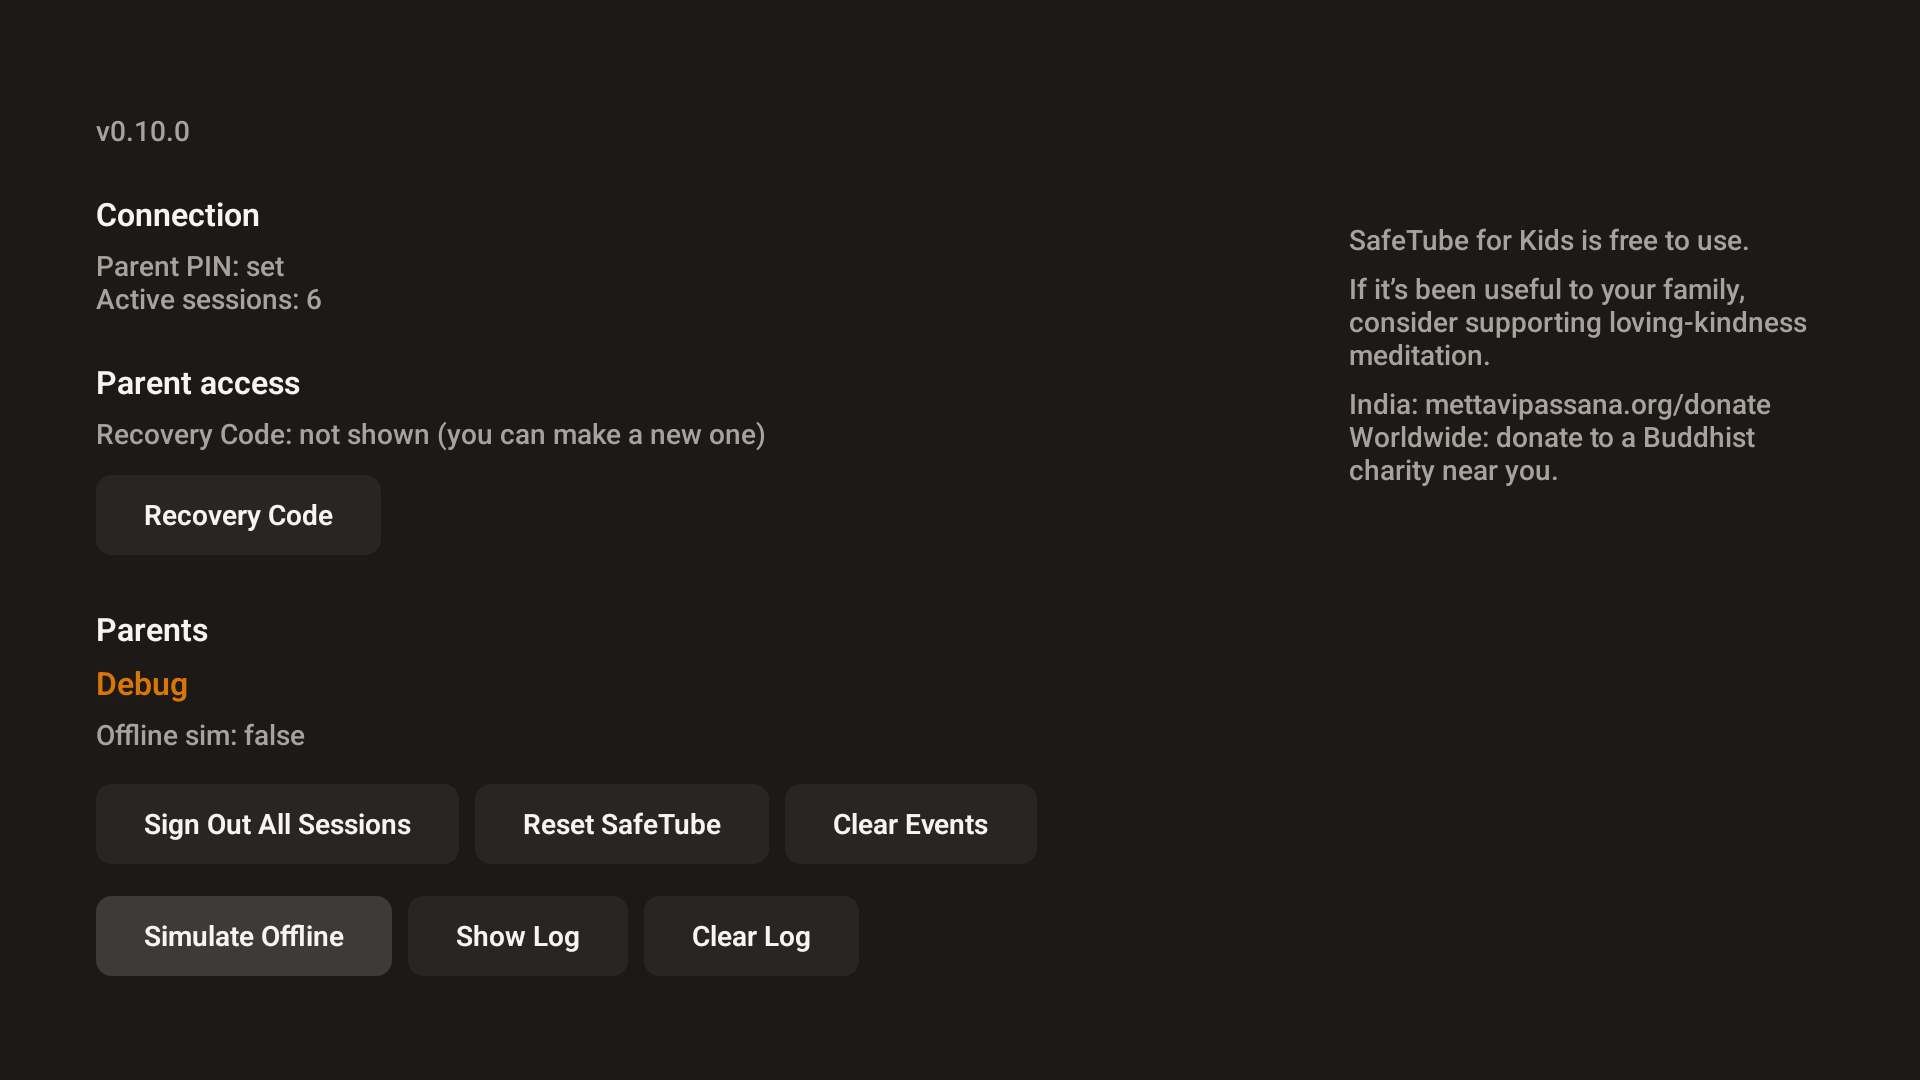
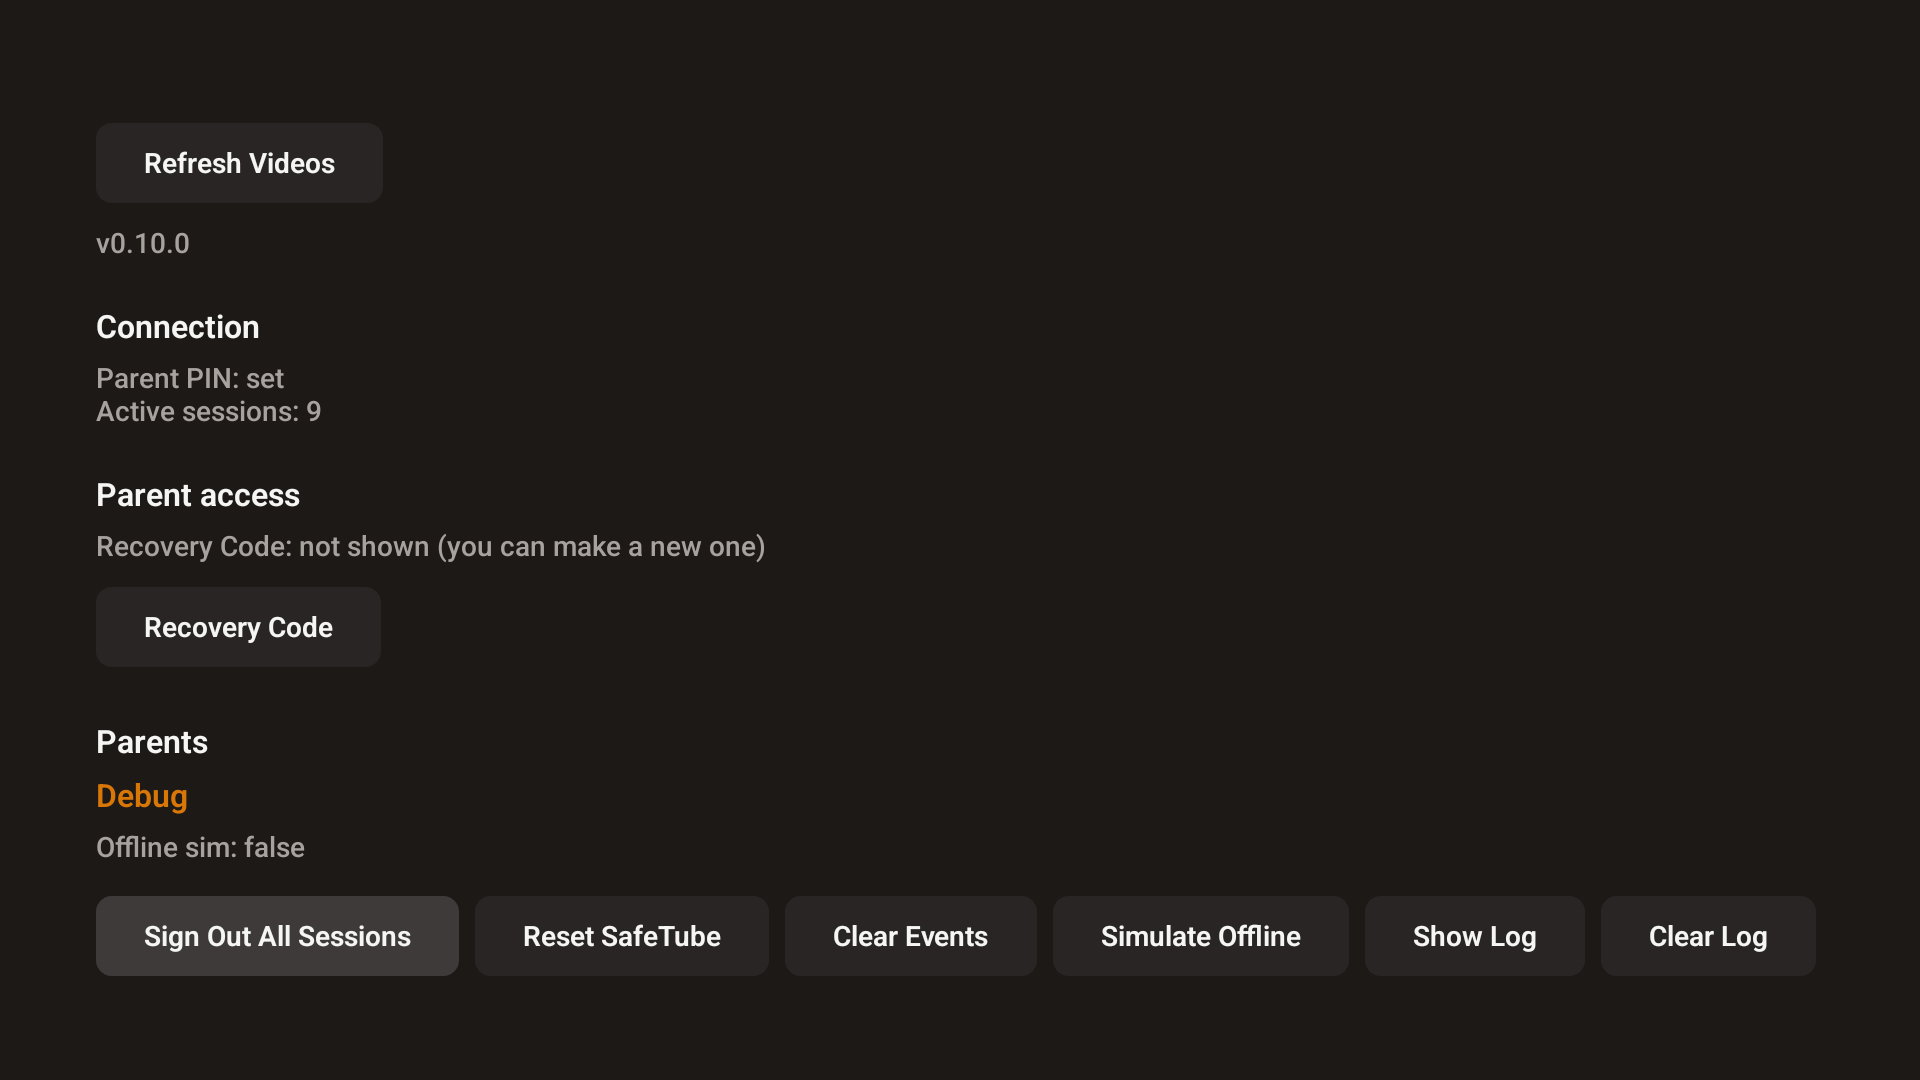
ui: remove obsolete upstream branding and donation text
The TV Settings screen carried a right-hand column inherited from the project SafeTube forked from: 'SafeTube for Kids is free to use', an appeal to support loving-kindness meditation, an India donation link and 'donate to a Buddhist charity near you'. The Connect Phone screen carried the same paragraph. None of it was SafeTube's, and it has been removed at its source in both screens, leaving the settings list to use the width.

One more place the old project's name was on screen: enabling Remote Access printed the relay's address, which is the upstream project's hostname. The panel now shows the connection status and what the feature does, and the address is gone. The relay code itself is untouched - its endpoint, its CORS entry and its build default are networking identifiers, not UI, and rewriting them would change behaviour this task does not own. The two log lines that would have written that hostname into the app's own log panel no longer name it either.

Nothing was replaced with another support message, and no attribution was invented. The upstream contribution is still recorded where it belongs: the licence, the README's origins section and the project history.
[…]

diff --git a/tv-app/app/src/main/java/tv/safetubeforkids/app/ui/screens/ConnectScreen.kt b/tv-app/app/src/main/java/tv/safetubeforkids/app/ui/screens/ConnectScreen.kt
@@ -273,35 +273,6 @@ fun ConnectScreen(onBack: () -> Unit = {}, onParentAccess: () -> Unit = {}) {
 
                     Spacer(modifier = Modifier.height(16.dp))
 
-                    // Charityware
-                    Text(
-                        text = "SafeTube for Kids is free to use.",
-                        style = MaterialTheme.typography.bodySmall,
-                        color = KidTextDim,
-                    )
-                    Text(
-                        text = "If it\u2019s been useful to your family,",
-                        style = MaterialTheme.typography.bodySmall,
-                        color = KidTextDim,
-                    )
-                    Text(
-                        text = "consider supporting loving-kindness meditation.",
-                        style = MaterialTheme.typography.bodySmall,
-                        color = KidTextDim,
-                    )
-                    Text(
-                        text = "India: mettavipassana.org/donate",
-                        style = MaterialTheme.typography.bodySmall,
-                        color = KidTextDim,
-                    )
-                    Text(
-                        text = "Worldwide: donate to a Buddhist charity near you.",
-                        style = MaterialTheme.typography.bodySmall,
-                        color = KidTextDim,
-                    )
-
-                    Spacer(modifier = Modifier.height(20.dp))
-
                     Button(
                         onClick = onBack,
                         colors = ButtonDefaults.buttonColors(containerColor = KidSurface),
@@ -436,9 +407,9 @@ private fun ConnectSettingsPanel(
         Spacer(modifier = Modifier.height(4.dp))
 
         if (localRelayEnabled) {
-            relayConfig?.let {
-                Text("Relay: ${it.relayUrl}", style = MaterialTheme.typography.bodySmall, color = KidTextDim)
-            }
+            // The relay's address is not shown: it points at the upstream project's infrastructure,
+            // which this fork does not run, and printing that hostname on the TV was the last place the
+            // old project's name appeared on screen. The connection status below is what a parent needs.
             relayState?.let { state ->
                 val statusText = when (state) {
                     RelayConnectionState.CONNECTED -> "Connected"

diff --git a/tv-app/app/src/main/java/tv/safetubeforkids/app/ui/screens/SettingsScreen.kt b/tv-app/app/src/main/java/tv/safetubeforkids/app/ui/screens/SettingsScreen.kt
@@ -58,7 +58,10 @@ fun SettingsScreen(
             .background(KidBackground)
             .padding(OverscanPadding),
     ) {
-        // Left column: settings
+        // One column of settings. The right-hand column that used to sit beside it held third-party
+        // support text inherited from the project SafeTube forked from - it was not SafeTube's, it is
+        // not shown anywhere any more, and this comment stays so that nobody reinstates it. The row
+        // itself stays because it is what applies the screen's padding.
         Column(
             modifier = Modifier
                 .weight(1f)
@@ -162,39 +165,6 @@ fun SettingsScreen(
                 Spacer(modifier = Modifier.height(12.dp))
                 LogPanel()
             }
-        }
-
-        Spacer(modifier = Modifier.width(32.dp))
-
-        // Right column: charityware
-        Column(
-            modifier = Modifier
-                .weight(0.4f)
-                .padding(top = 64.dp),
-            verticalArrangement = Arrangement.Top,
-        ) {
-            Text(
-                text = "SafeTube for Kids is free to use.",
-                style = MaterialTheme.typography.bodySmall,
-                color = KidTextDim,
-            )
-            Spacer(modifier = Modifier.height(8.dp))
-            Text(
-                text = "If it\u2019s been useful to your family, consider supporting loving-kindness meditation.",
-                style = MaterialTheme.typography.bodySmall,
-                color = KidTextDim,
-            )
-            Spacer(modifier = Modifier.height(8.dp))
-            Text(
-                text = "India: mettavipassana.org/donate",
-                style = MaterialTheme.typography.bodySmall,
-                color = KidTextDim,
-            )
-            Text(
-                text = "Worldwide: donate to a Buddhist charity near you.",
-                style = MaterialTheme.typography.bodySmall,
-                color = KidTextDim,
-            )
         }
     }
 }

diff --git a/tv-app/app/src/main/java/tv/safetubeforkids/app/relay/RelayConnector.kt b/tv-app/app/src/main/java/tv/safetubeforkids/app/relay/RelayConnector.kt
@@ -51,7 +51,7 @@ class RelayConnector(
         shouldReconnect = true
         startTime = clock()
         scope = CoroutineScope(dispatcher + SupervisorJob())
-        AppLogger.log("Relay connecting to ${config.relayUrl}")
+        AppLogger.log("Relay connecting")
         doConnect()
     }
 
@@ -93,7 +93,7 @@ class RelayConnector(
                 state = RelayConnectionState.CONNECTED
                 currentBackoffMs = 1000 // reset backoff on successful connect
                 startHeartbeat(ws)
-                AppLogger.success("Relay connected to ${config.relayUrl}")
+                AppLogger.success("Relay connected")
             }
 
             override fun onMessage(ws: WebSocket, text: String) {

diff --git a/README.md b/README.md
@@ -515,8 +515,8 @@ rather than a silent overwrite.
 - **YouTube is an external service.** Playback fetches the video from YouTube, so YouTube sees the
   request as it would from any player. SafeTube adds no tracking of its own, and it is not an official
   YouTube client.
-- **Remote access is off by default** and is inherited upstream code pointing at infrastructure this
-  fork does not run (see [Known limitations](#known-limitations)).
+- **Remote access is off by default.** It is inherited upstream code that points at a relay service
+  this fork neither runs nor maintains (see [Known limitations](#known-limitations)).
 
 ## Development
 
@@ -641,8 +641,10 @@ README.
   dashboard says what went wrong instead of failing silently.
 - **Multi-track switching reopens the stream** while preserving position, rather than using Media3
   track overrides, because the videos tested so far expose no DASH manifest.
-- **The relay is inherited and unusable.** Remote access points at upstream infrastructure this fork
-  does not run; on-network access to the dashboard is what works. It is off by default.
+- **The relay belongs to the upstream project.** Remote access (the gear on the **Connect Phone**
+  screen) connects to a relay service that comes from the project SafeTube forked from, and this fork
+  neither runs nor maintains it — it can change or disappear without notice. Reaching the dashboard
+  over your own network needs none of it, which is why remote access is off by default.
 - **One device, one family.** SafeTube has no notion of multiple child profiles; the library, the
   limits and the PIN belong to the TV.
 - **Kiosk mode is not parent-facing.** Locking the TV to a whitelist of apps still exists in the app
